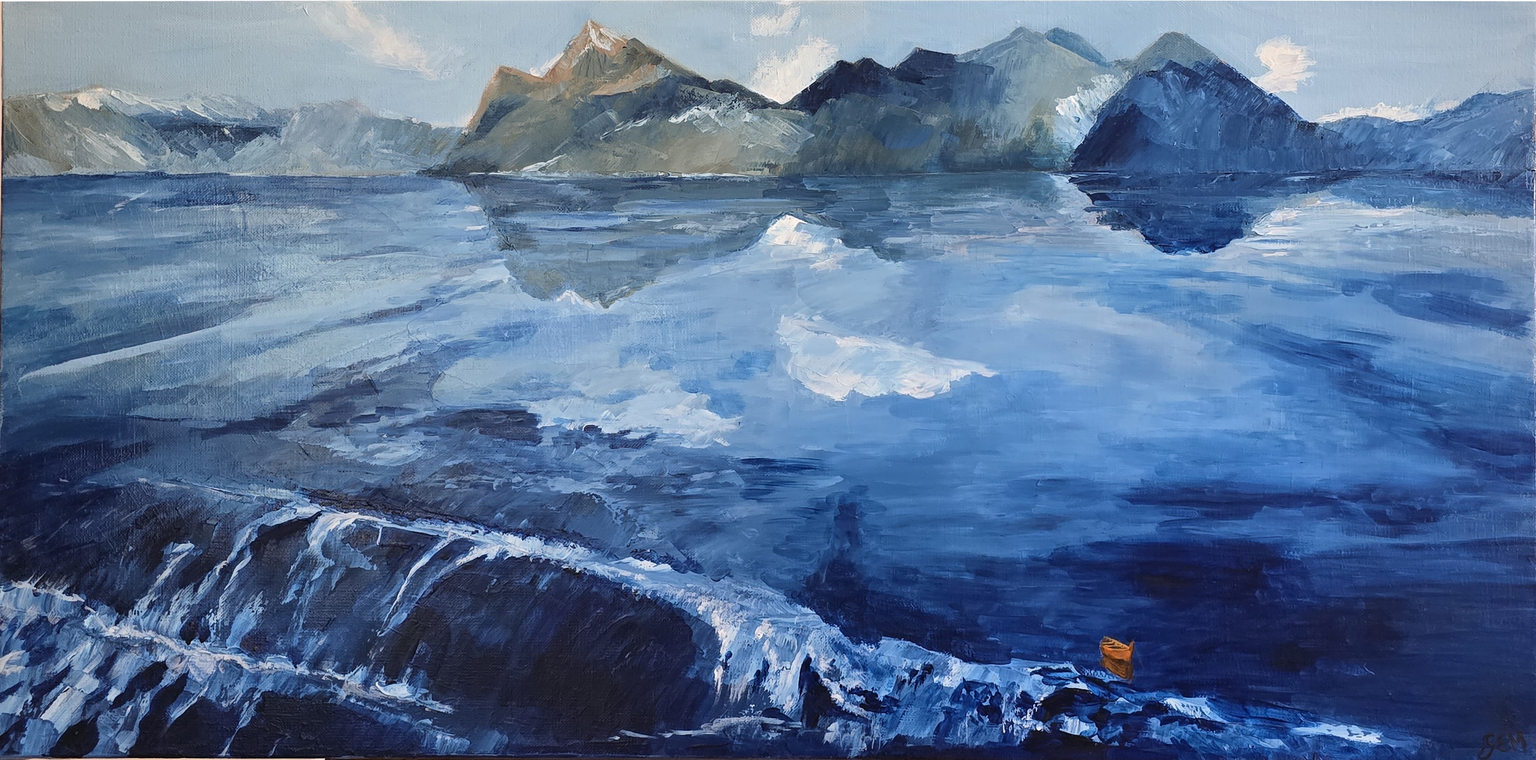
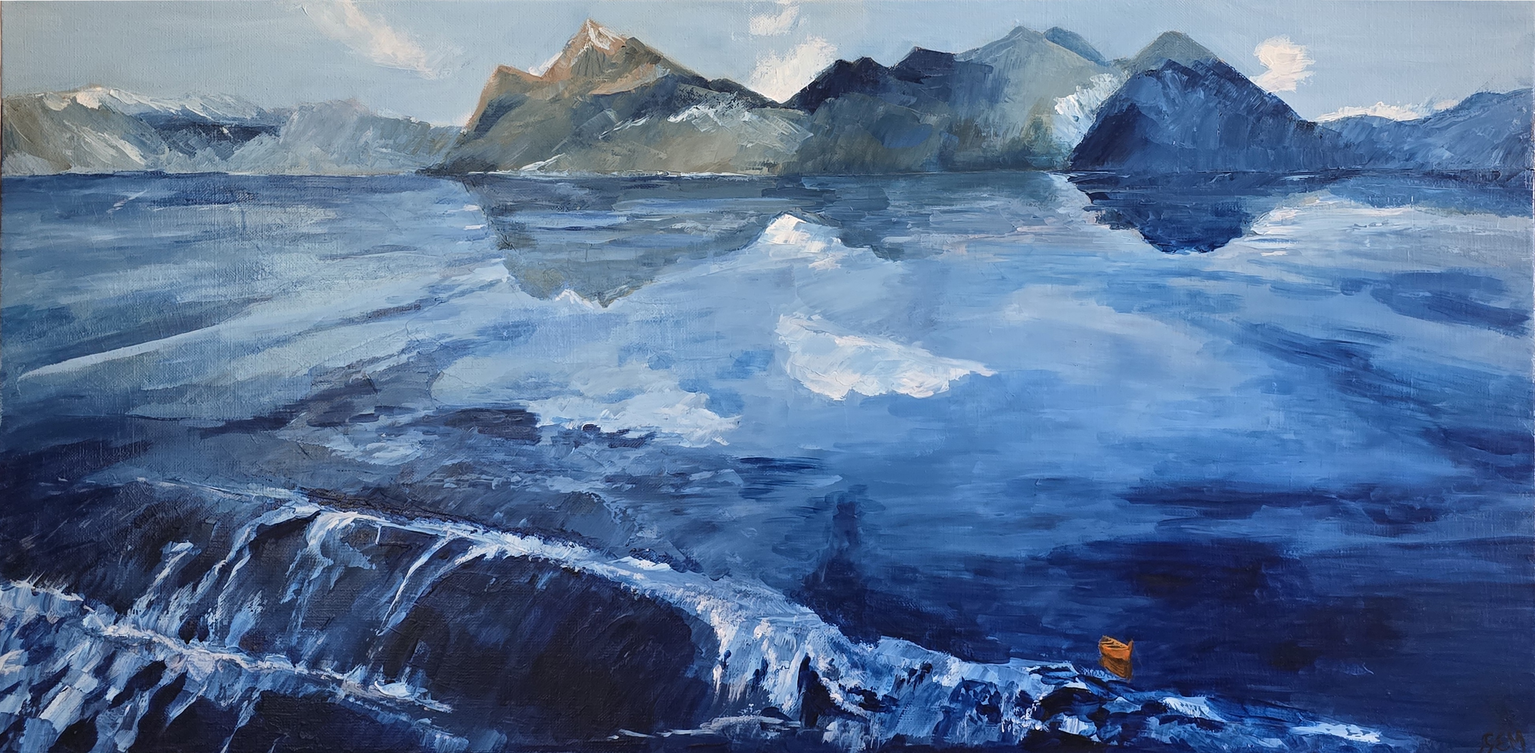
jout de Farandole (et update Lac Bleu painting)

diff --git a/htdocs/public/serie-oeuvresrecentes.php b/htdocs/public/serie-oeuvresrecentes.php
@@ -37,6 +37,7 @@ $paints["LacBleu"]= $oil->paints["LacBleu"];
 
 // Acrylic
 $paints["Cavalcade"]= $acrylic->paints["Cavalcade"];
+$paints["Farandole"]= $acrylic->paints["Farandole"];
 
 
 // Pastels
@@ -78,6 +79,7 @@ $column_generator->generate_style("FleurNenuphar", "white");
 $column_generator->generate_style("GourdonEglise", "black");
 $column_generator->generate_style("LacBleu", "white");
 $column_generator->generate_style("Cavalcade", "white");
+$column_generator->generate_style("Farandole", "white");
     ?>
   </style>
   
@@ -115,6 +117,13 @@ $column_generator->generate_style("Cavalcade", "white");
           <?= $column_generator->add_to_column( "Cavalcade" ); ?>
 		  <?= $column_generator->add_to_column( "GourdonEglise" ); ?>
          </div>
+      </div>
+	  
+       <!-- Only column --> 	  
+	  <div class="w3-grid" style="grid-template-columns:100%">
+        <div class="w3-grid" style="grid-template-columns:auto; align-content:flex-start">
+		  <?= $column_generator->add_to_column( "Farandole" ); ?>
+        </div>
       </div>
 
 

diff --git a/htdocs/private/locale/fr/messages.php b/htdocs/private/locale/fr/messages.php
@@ -72,7 +72,7 @@ return array(
 	<br>Envoyez un email à contact@giseleeisenmann.com pour plus d'information</br>
 	</p>",		
 	
-    'IntroOeuvresRecentes' => "Oeuvres crées récemment et jamais exposées. ",	
+    'IntroOeuvresRecentes' => "Oeuvres créées récemment et jamais exposées. ",	
 
     'Introduction' => '  <p>Gisèle Eisenmann Montagné (nom artiste: GEM) est une artiste autodidacte, travaillant 
 	principalement aujourd’hui avec l’huile et l’acrylique, et occasionnellement avec des pastels secs. 
@@ -235,6 +235,9 @@ Elle explore aussi l’abstrait qui lui permet de faire jaillir couleurs et form
 	'Cavalcade_Alt' => "Abstraction rouge et verte cadre bois peint",
     'Cavalcade_Titre' => "Cavalcade",
     'Cavalcade_Desc' => "Abstrait. Couteaux - Texture",
+	'Farandole_Alt' => "Fleurs orangées et blanches texturées en mouvement",
+    'Cavalcade_Titre' => "Farandole",
+    'Cavalcade_Desc' => "",
 
 	// oil
     'AutomneCezanne_Alt' => "Automne - thème allégorique des saisons au Jas de Bouffan",

diff --git a/htdocs/private/locale/en/messages.php b/htdocs/private/locale/en/messages.php
@@ -229,6 +229,9 @@ return array(
 	'Cavalcade_Alt' => "Red and green abstraction painted wooden frame",
     'Cavalcade_Titre' => "Cavalcade",
     'Cavalcade_Desc' => "Abstraction. Painting knives and texturing",
+    'Farandole_Alt' => "Orange and white flowers with modeling paste",
+    'Farandole_Titre' => "Farandole",
+    'Farandole_Desc' => "",
 
 	// oil
     'AutomneCezanne_Alt' => "Autumn - allegorical theme of the seasons at the Jas de Bouffan - after Cezanne",
